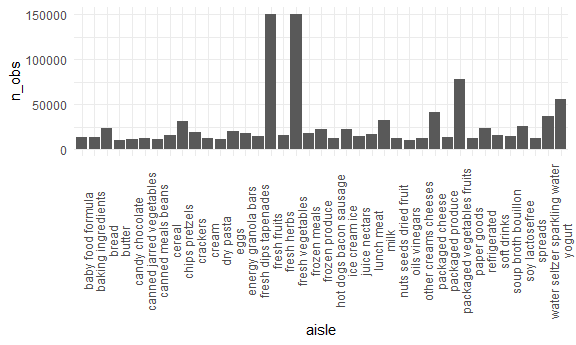
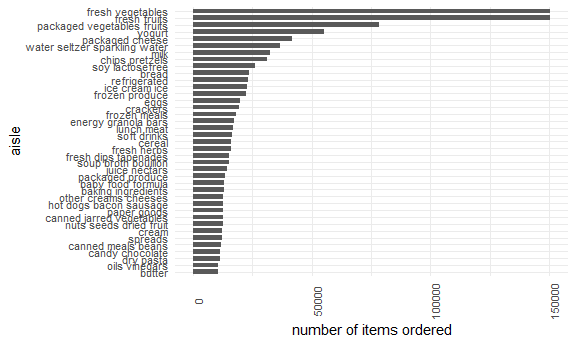
additional exploratory analysis

diff --git a/p8105_hw3_dtw2127.md b/p8105_hw3_dtw2127.md
@@ -8,62 +8,86 @@ dataset.
 
 ``` r
 data("instacart")
-
-str(instacart)
 ```
-
-    ## tibble [1,384,617 x 15] (S3: tbl_df/tbl/data.frame)
-    ##  $ order_id              : int [1:1384617] 1 1 1 1 1 1 1 1 36 36 ...
-    ##  $ product_id            : int [1:1384617] 49302 11109 10246 49683 43633 13176 47209 22035 39612 19660 ...
-    ##  $ add_to_cart_order     : int [1:1384617] 1 2 3 4 5 6 7 8 1 2 ...
-    ##  $ reordered             : int [1:1384617] 1 1 0 0 1 0 0 1 0 1 ...
-    ##  $ user_id               : int [1:1384617] 112108 112108 112108 112108 112108 112108 112108 112108 79431 79431 ...
-    ##  $ eval_set              : chr [1:1384617] "train" "train" "train" "train" ...
-    ##  $ order_number          : int [1:1384617] 4 4 4 4 4 4 4 4 23 23 ...
-    ##  $ order_dow             : int [1:1384617] 4 4 4 4 4 4 4 4 6 6 ...
-    ##  $ order_hour_of_day     : int [1:1384617] 10 10 10 10 10 10 10 10 18 18 ...
-    ##  $ days_since_prior_order: int [1:1384617] 9 9 9 9 9 9 9 9 30 30 ...
-    ##  $ product_name          : chr [1:1384617] "Bulgarian Yogurt" "Organic 4% Milk Fat Whole Milk Cottage Cheese" "Organic Celery Hearts" "Cucumber Kirby" ...
-    ##  $ aisle_id              : int [1:1384617] 120 108 83 83 95 24 24 21 2 115 ...
-    ##  $ department_id         : int [1:1384617] 16 16 4 4 15 4 4 16 16 7 ...
-    ##  $ aisle                 : chr [1:1384617] "yogurt" "other creams cheeses" "fresh vegetables" "fresh vegetables" ...
-    ##  $ department            : chr [1:1384617] "dairy eggs" "dairy eggs" "produce" "produce" ...
-    ##  - attr(*, "spec")=
-    ##   .. cols(
-    ##   ..   order_id = col_integer(),
-    ##   ..   product_id = col_integer(),
-    ##   ..   add_to_cart_order = col_integer(),
-    ##   ..   reordered = col_integer(),
-    ##   ..   user_id = col_integer(),
-    ##   ..   eval_set = col_character(),
-    ##   ..   order_number = col_integer(),
-    ##   ..   order_dow = col_integer(),
-    ##   ..   order_hour_of_day = col_integer(),
-    ##   ..   days_since_prior_order = col_integer(),
-    ##   ..   product_name = col_character(),
-    ##   ..   aisle_id = col_integer(),
-    ##   ..   department_id = col_integer(),
-    ##   ..   aisle = col_character(),
-    ##   ..   department = col_character()
-    ##   .. )
 
 The instacart dataset contains 1384617 rows of data for 15 variables.
 Key variables include order ID, product ID, add to cart order, user ID,
 order hour of day, days since prior order, and department.
 
+The dataset contains information from 131209 users.
+
+Let’s see how many different products are carried by each department.
+
+``` r
+instacart %>% 
+  group_by(department) %>% 
+  summarize(n_products = n_distinct(product_name)) %>% 
+  arrange(desc(n_products))
+```
+
+    ## # A tibble: 21 x 2
+    ##    department      n_products
+    ##    <chr>                <int>
+    ##  1 snacks                5020
+    ##  2 personal care         4314
+    ##  3 pantry                4107
+    ##  4 beverages             3526
+    ##  5 frozen                3414
+    ##  6 dairy eggs            3033
+    ##  7 household             2327
+    ##  8 canned goods          1715
+    ##  9 produce               1533
+    ## 10 dry goods pasta       1526
+    ## # ... with 11 more rows
+
+The snacks department carries the most number of different products,
+while the bulk department carries the least.
+
+Let’s see which day of the week is most popular for orders.
+
+``` r
+instacart %>% 
+  mutate(order_dow = recode(order_dow, `0` = "Sunday", 
+                            `1` = "Monday", 
+                            `2` = "Tuesday", 
+                            `3` = "Wednesday", 
+                            `4` = "Thursday", 
+                            `5` = "Friday", 
+                            `6` = "Saturday")) %>%
+  group_by(order_dow) %>%
+  summarize(n_orders = n_distinct(order_id)) %>% 
+  arrange(desc(n_orders))
+```
+
+    ## # A tibble: 7 x 2
+    ##   order_dow n_orders
+    ##   <chr>        <int>
+    ## 1 Sunday       27465
+    ## 2 Monday       19672
+    ## 3 Saturday     18901
+    ## 4 Friday       17406
+    ## 5 Tuesday      16119
+    ## 6 Thursday     15959
+    ## 7 Wednesday    15687
+
+Sundays are the most popular days for orders, followed by Monday.
+
 There are 134 aisles. Let’s determine which aisle the most items are
 ordered from.
 
 ``` r
-instacart %>% group_by(aisle) %>% summarize(n_obs = n()) %>% slice_max(n_obs, n=3)
+instacart %>% 
+  group_by(aisle) %>% 
+  summarize(n_obs = n()) %>% 
+  slice_max(n_obs, n=3) %>%
+  knitr::kable()
 ```
 
-    ## # A tibble: 3 x 2
-    ##   aisle                       n_obs
-    ##   <chr>                       <int>
-    ## 1 fresh vegetables           150609
-    ## 2 fresh fruits               150473
-    ## 3 packaged vegetables fruits  78493
+| aisle                      | n\_obs |
+|:---------------------------|-------:|
+| fresh vegetables           | 150609 |
+| fresh fruits               | 150473 |
+| packaged vegetables fruits |  78493 |
 
 The most items are ordered from the fresh vegetables, fresh fruits, and
 packaged vegetables and fruits aisle.
@@ -72,15 +96,19 @@ We’ll make a plot that shows the number of items ordered from each
 aisle.
 
 ``` r
-instacart %>% group_by(aisle, department) %>% summarize(n_obs = n()) %>% filter(n_obs > 10000) %>% 
-  ggplot(aes(x = aisle, y = n_obs)) + 
-  geom_bar(stat = "identity") +
-  theme(axis.text.x = element_text(angle = 90))
+instacart %>% 
+  group_by(aisle, department) %>% 
+  summarize(n_obs = n()) %>% filter(n_obs > 10000) %>% 
+  ggplot(aes(x = forcats::fct_reorder(aisle, n_obs), y = n_obs)) +
+  geom_bar(stat = "identity", width = 0.7, position = "dodge") + 
+  theme(axis.text.x = element_text(angle = 90)) +
+  labs(x = "aisle", y = "number of items ordered") + 
+  coord_flip()
 ```
 
     ## `summarise()` has grouped output by 'aisle'. You can override using the `.groups` argument.
 
-<img src="p8105_hw3_dtw2127_files/figure-gfm/unnamed-chunk-3-1.png" width="90%" />
+<img src="p8105_hw3_dtw2127_files/figure-gfm/unnamed-chunk-5-1.png" width="90%" />
 
 ``` r
 #arrange bars in ascending order
@@ -91,7 +119,14 @@ of the aisles “baking ingredients”, “dog food care”, and “packaged
 vegetables fruits”.
 
 ``` r
-instacart %>% filter(aisle %in% c("baking ingredients", "packaged vegetables fruits", "dog food care")) %>% group_by(aisle, product_name) %>% summarize(n_obs = n()) %>% slice_max(order_by = n_obs, n = 3) %>% knitr::kable()
+instacart %>% 
+  filter(aisle %in% c("baking ingredients", 
+                      "packaged vegetables fruits", 
+                      "dog food care")) %>% 
+  group_by(aisle, product_name) %>% 
+  summarize(n_obs = n()) %>% 
+  slice_max(order_by = n_obs, n = 3) %>% 
+  knitr::kable()
 ```
 
     ## `summarise()` has grouped output by 'aisle'. You can override using the `.groups` argument.
@@ -108,11 +143,12 @@ instacart %>% filter(aisle %in% c("baking ingredients", "packaged vegetables fru
 | packaged vegetables fruits | Organic Raspberries                           |   5546 |
 | packaged vegetables fruits | Organic Blueberries                           |   4966 |
 
-``` r
-#instacart %>% filter(aisle == c("baking ingredients")) %>% group_by(product_name) %>% summarize(n_obs = n()) %>% slice_max(order_by = n_obs, n = 3) %>% knitr::kable()
-#instacart %>% filter(aisle == c("packaged vegetables fruits")) %>% group_by(product_name) %>% summarize(n_obs = n()) %>% slice_max(order_by = n_obs, n = 3) %>% knitr::kable()
-#instacart %>% filter(aisle == c("dog food care")) %>% group_by(product_name) %>% summarize(n_obs = n()) %>% slice_max(order_by = n_obs, n = 3) %>% knitr::kable()
-```
+The most popular items in the baking ingredients aisle are light brown
+sugar, pure baking soda and cane sugar. The most popular items in the
+dog food care aisle are snack sticks chicken & rice recipe dog treats,
+organic chicken & brown rice recipe, and small dog biscuits. The most
+popular items in the packaged vegetables fruits aisle are organic baby
+spinach, raspberries and blueberries.
 
 Next we’ll make a table showing the mean hour of the day at which Pink
 Lady Apples and Coffee Ice Cream are ordered on each day of the week and
@@ -121,25 +157,28 @@ will format the table for human readers.
 ``` r
 instacart %>% 
   filter(product_name %in% c("Pink Lady Apples", "Coffee Ice Cream")) %>% 
+  mutate(order_dow = recode(order_dow, `0` = "Sunday", 
+                            `1` = "Monday", 
+                            `2` = "Tuesday", 
+                            `3` = "Wednesday", 
+                            `4` = "Thursday", 
+                            `5` = "Friday", 
+                            `6` = "Saturday")) %>%
+  mutate(order_dow = factor(order_dow, levels = c("Sunday", "Monday", "Tuesday", "Wednesday", "Thursday", "Friday", "Saturday"))) %>% 
   group_by(order_dow, product_name) %>% 
   summarize(mean_hour_of_day = mean(order_hour_of_day)) %>% 
   pivot_wider(
-    names_from = product_name, 
+    names_from = order_dow, 
     values_from = mean_hour_of_day) %>% 
   knitr::kable(digits = 1)
 ```
 
     ## `summarise()` has grouped output by 'order_dow'. You can override using the `.groups` argument.
 
-| order\_dow | Coffee Ice Cream | Pink Lady Apples |
-|-----------:|-----------------:|-----------------:|
-|          0 |             13.8 |             13.4 |
-|          1 |             14.3 |             11.4 |
-|          2 |             15.4 |             11.7 |
-|          3 |             15.3 |             14.2 |
-|          4 |             15.2 |             11.6 |
-|          5 |             12.3 |             12.8 |
-|          6 |             13.8 |             11.9 |
+| product\_name    | Sunday | Monday | Tuesday | Wednesday | Thursday | Friday | Saturday |
+|:-----------------|-------:|-------:|--------:|----------:|---------:|-------:|---------:|
+| Coffee Ice Cream |   13.8 |   14.3 |    15.4 |      15.3 |     15.2 |   12.3 |     13.8 |
+| Pink Lady Apples |   13.4 |   11.4 |    11.7 |      14.2 |     11.6 |   12.8 |     11.9 |
 
 ## Problem 2
 
@@ -204,12 +243,13 @@ observed at 7 or more locations.
 
 Next, we will construct a dataset limited to ‘Excellent’ responses and
 containing year, state and a variable averaging data\_value across
-locations within a state.
+locations within a state, and we’ll make a spaghetti plot of the average
+value over time.
 
 ``` r
 brfss %>%
   filter(response == "Excellent") %>% 
-  group_by(locationabbr, geo_location) %>% 
+  group_by(locationabbr, year) %>% 
   mutate(mean_data_value = mean(data_value)) %>% 
   select(year, locationabbr, mean_data_value) %>% 
   ggplot(aes(x = year, y = mean_data_value, color = locationabbr)) + 
@@ -217,11 +257,9 @@ brfss %>%
   theme(legend.position = "right")
 ```
 
-    ## Adding missing grouping variables: `geo_location`
+    ## Warning: Removed 65 row(s) containing missing values (geom_path).
 
-    ## Warning: Removed 1 row(s) containing missing values (geom_path).
-
-<img src="p8105_hw3_dtw2127_files/figure-gfm/unnamed-chunk-8-1.png" width="90%" />
+<img src="p8105_hw3_dtw2127_files/figure-gfm/unnamed-chunk-10-1.png" width="90%" />
 
 The majority of mean data values are under 30.
 
@@ -236,13 +274,28 @@ brfss %>%
          year %in% c(2006,2010)) %>% 
   group_by(locationabbr, geo_location) %>% 
   ggplot(aes(x = response, y = data_value)) + 
-  geom_point() + 
+  geom_point(size = .5) + 
   facet_grid(. ~ year)
 ```
 
     ## Warning: Removed 7 rows containing missing values (geom_point).
 
-<img src="p8105_hw3_dtw2127_files/figure-gfm/unnamed-chunk-9-1.png" width="90%" />
+<img src="p8105_hw3_dtw2127_files/figure-gfm/unnamed-chunk-11-1.png" width="90%" />
+
+``` r
+brfss %>% 
+  filter(response %in% c("Poor", "Fair", "Good",
+                         "Very Good", "Excellent"),
+         year %in% c(2006,2010)) %>% 
+  group_by(locationabbr, geo_location) %>% 
+  ggplot(aes(x = data_value, fill = response)) + 
+  geom_density(alpha = .4, adjust = .5, color = "blue") + 
+  facet_grid(. ~ year)
+```
+
+    ## Warning: Removed 7 rows containing non-finite values (stat_density).
+
+<img src="p8105_hw3_dtw2127_files/figure-gfm/unnamed-chunk-11-2.png" width="90%" />
 \#\# Problem 3
 
 Let’s load in and tidy the data.
@@ -322,3 +375,39 @@ accel_data %>%
 |      33 |       549658.00 |
 |      34 |       367824.00 |
 |      35 |       445366.00 |
+
+``` r
+accel_data %>% 
+  group_by(day_id) %>% 
+  summarize(activity_total = sum(activity_count)) %>% 
+  ggplot(aes(day_id, activity_total)) + 
+  geom_point()
+```
+
+<img src="p8105_hw3_dtw2127_files/figure-gfm/unnamed-chunk-14-1.png" width="90%" />
+
+``` r
+accel_data %>% 
+  group_by(day_id) %>% 
+  summarize(activity_total = sum(activity_count)) %>%
+  max()
+```
+
+    ## [1] 685910
+
+6.8591^{5}
+
+Finally, we will create a plot showing 24 hour activity time courses for
+each day.
+
+``` r
+accel_data %>% 
+  #group_by(day_id) %>% 
+  ggplot(aes(x = activity, y = activity_count)) + 
+  geom_line(aes(color = day), size = .3, alpha = 0.4) + 
+  scale_colour_manual(values = rainbow(7)) 
+```
+
+<img src="p8105_hw3_dtw2127_files/figure-gfm/unnamed-chunk-16-1.png" width="90%" />
+
+There is a general upward trend in activity counts.
